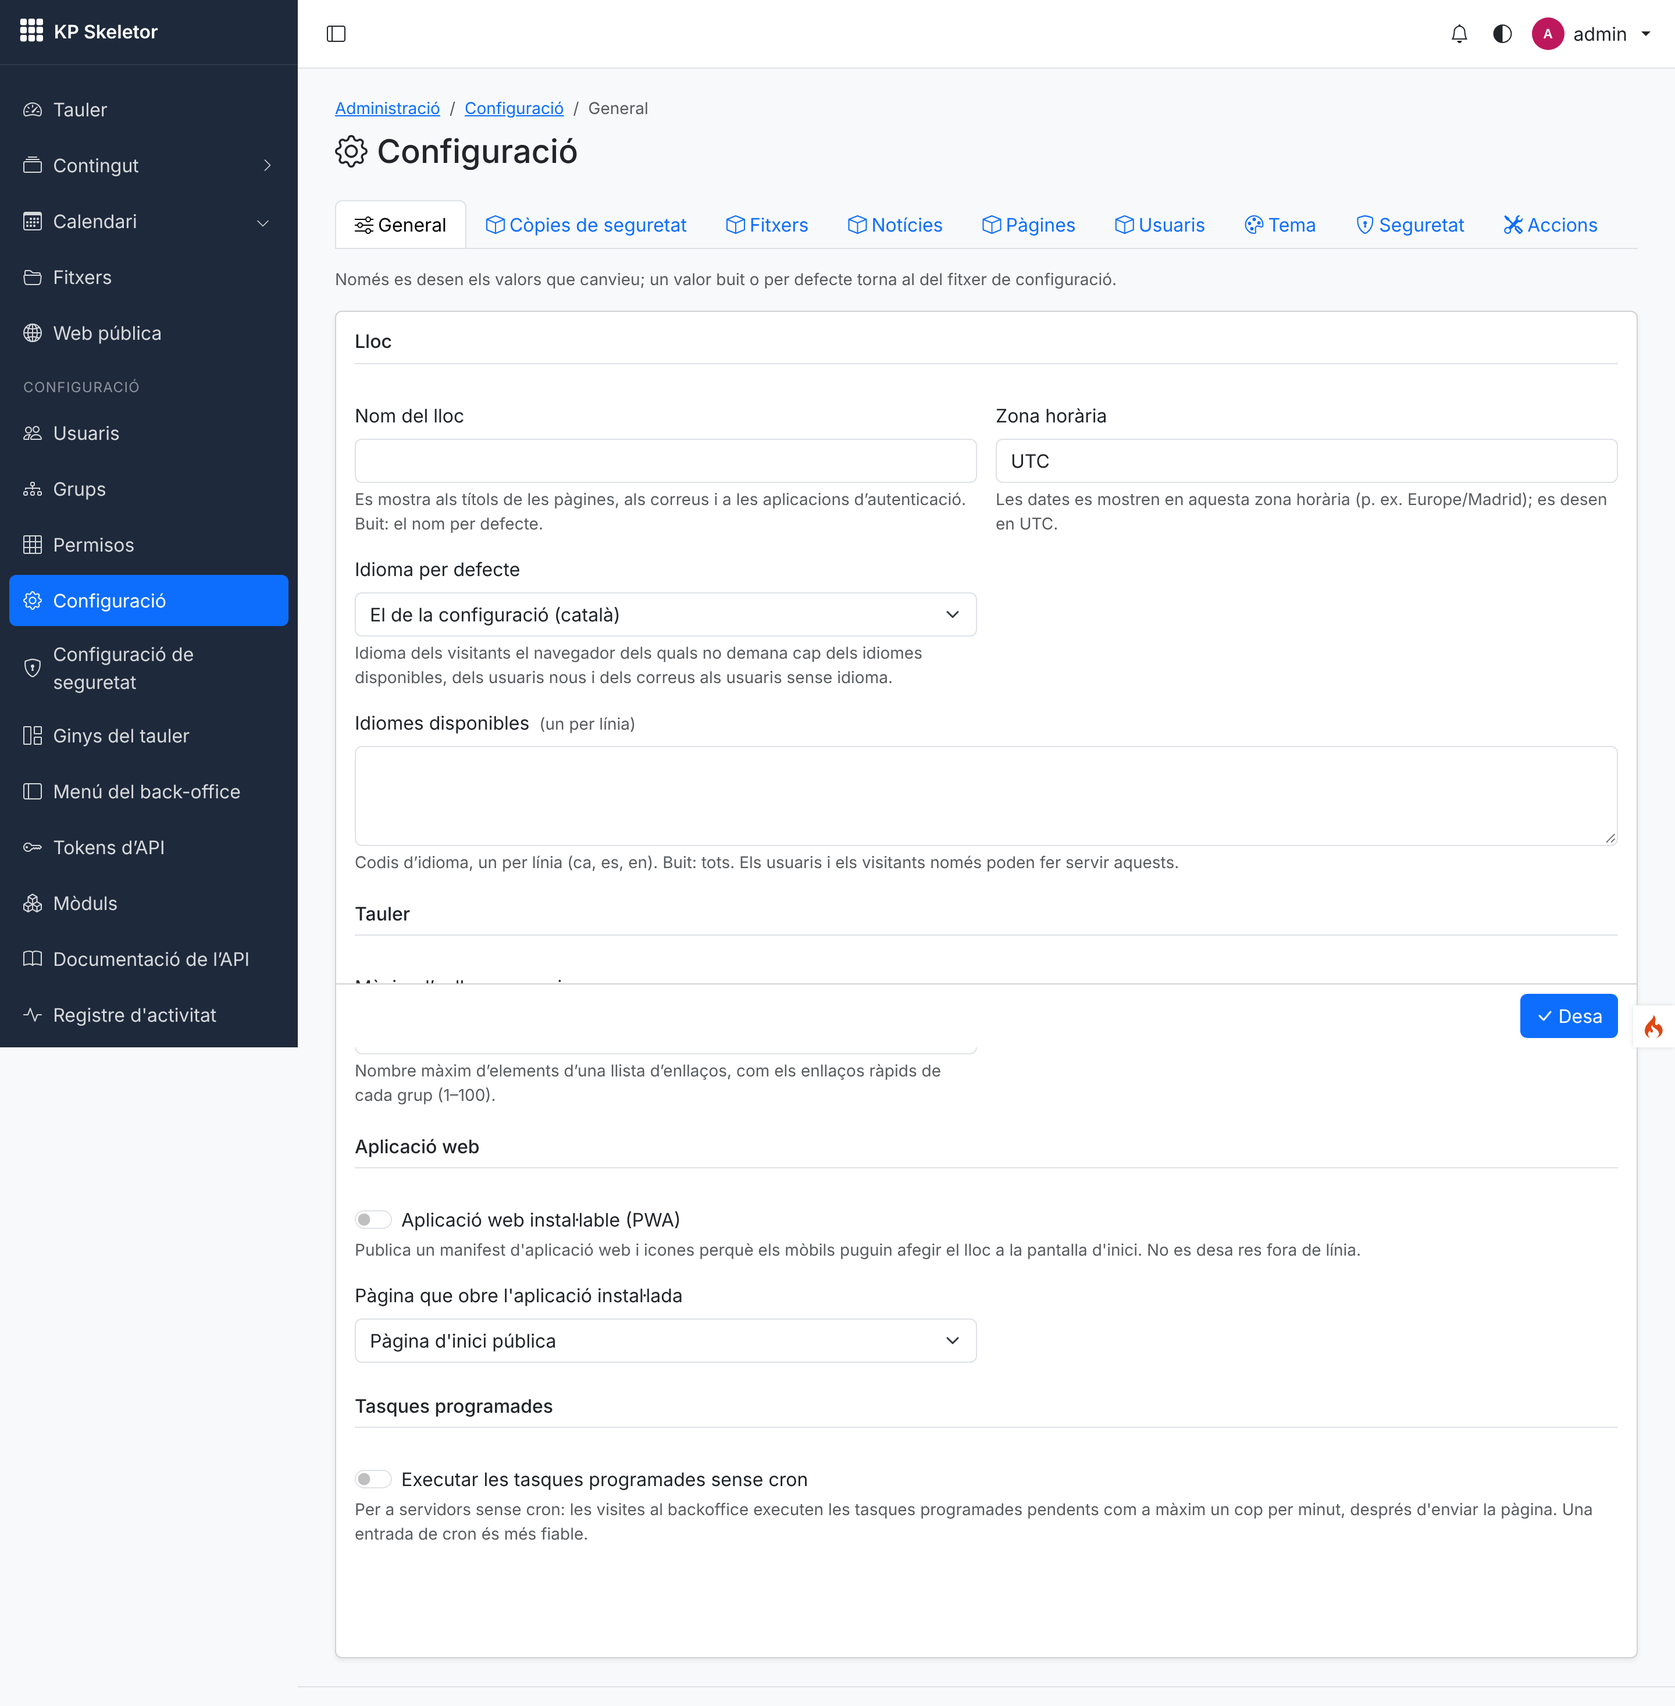
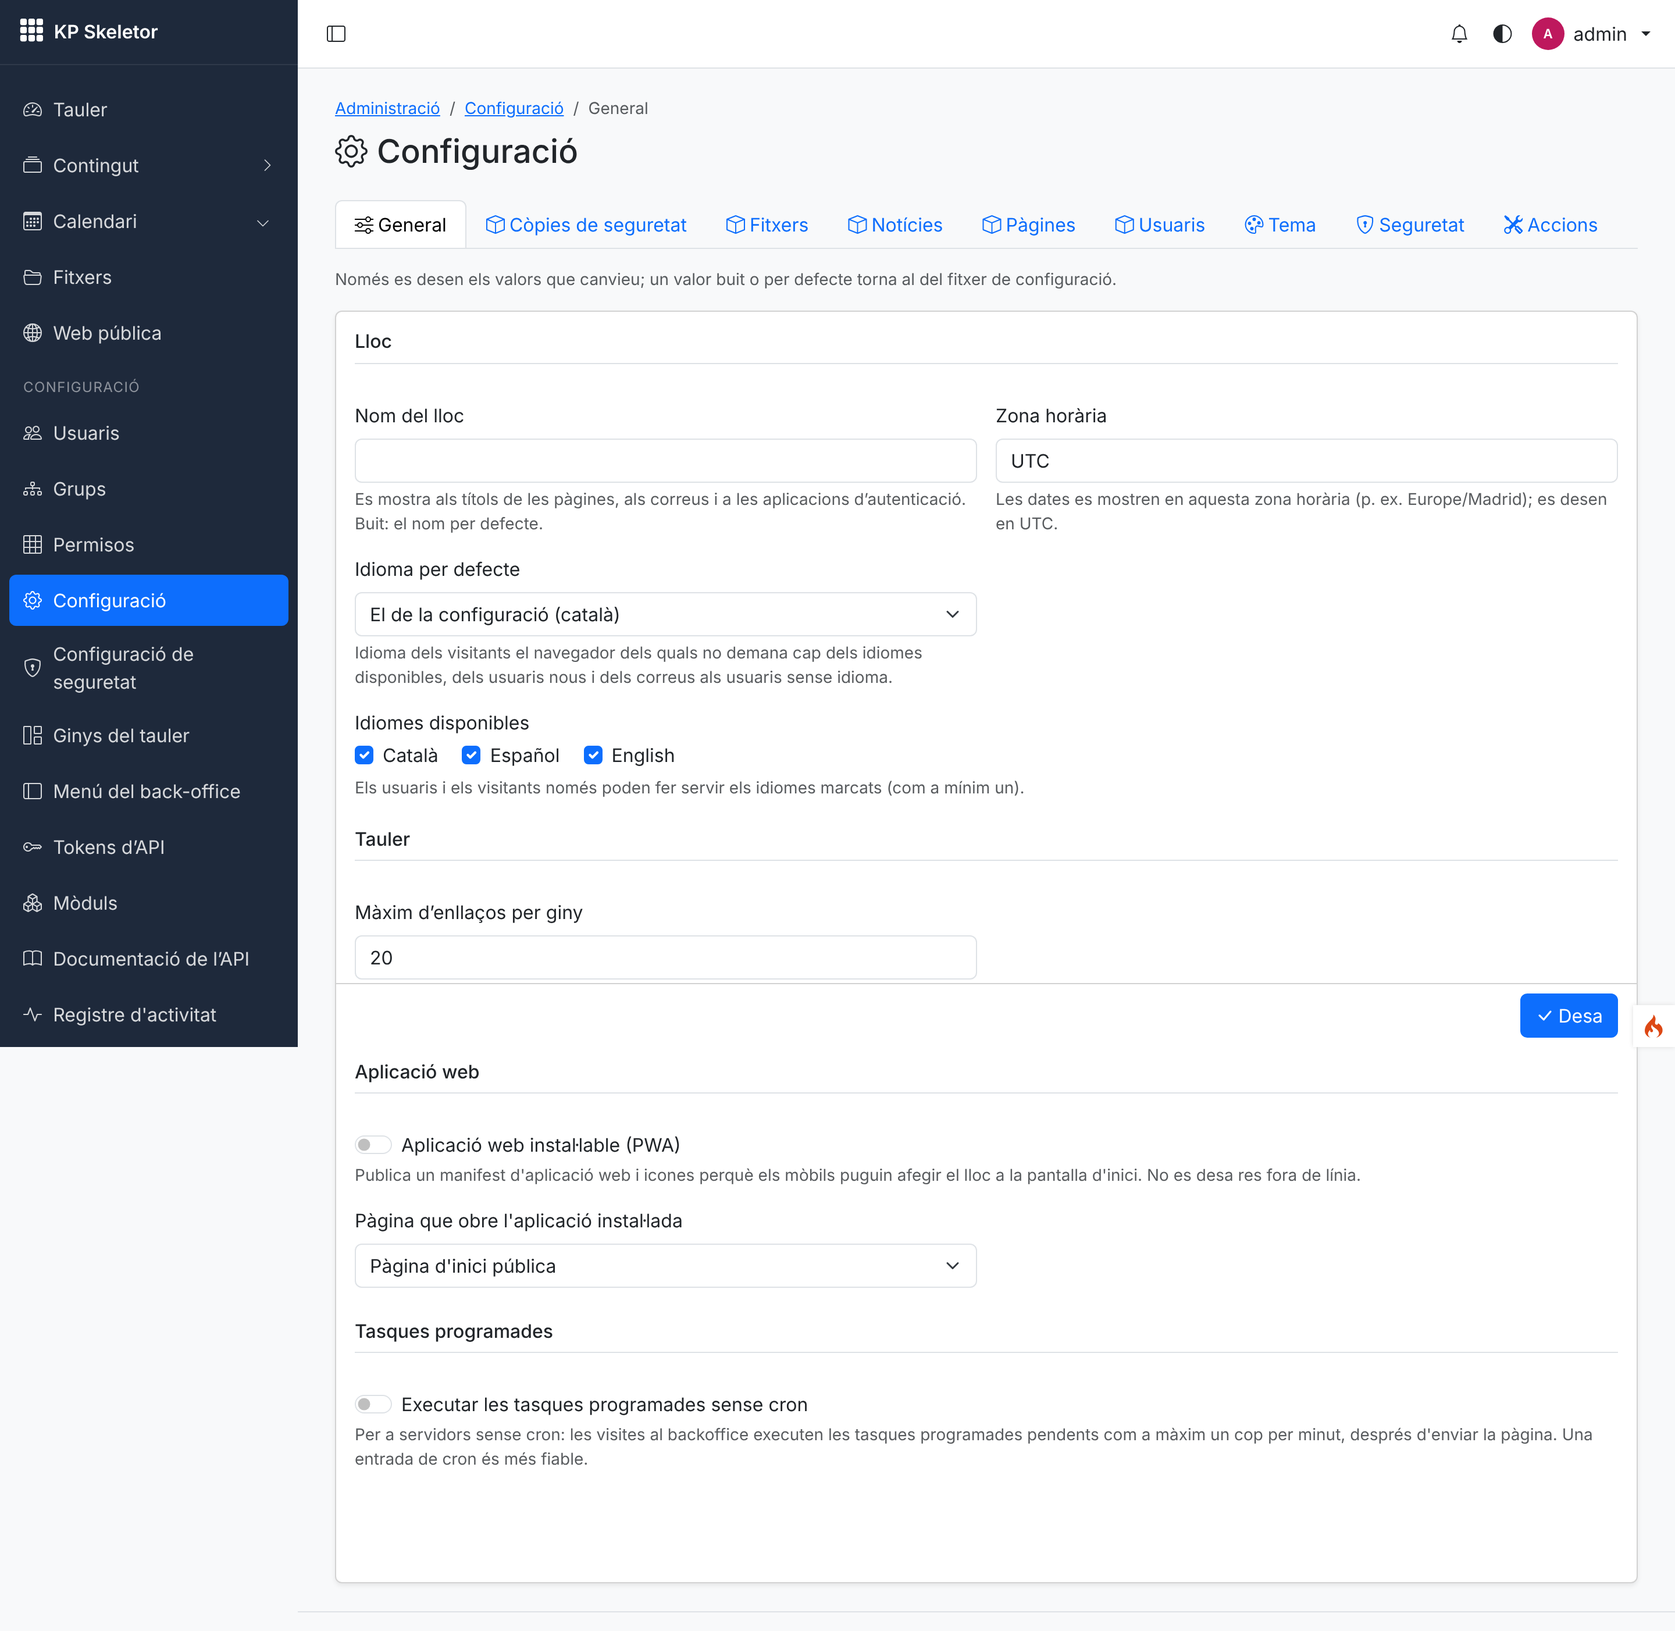
Decisions 31: D-31-01 decided (Available languages as checkboxes), applied: multiselect setting type
Core.locales becomes a multiselect (every language checked by default, at least
one); the Settings module renders checkboxes; specification, docs and tests.

Claude-Session: https://claude.ai/code/session_01BM6RUAMjy7edDvA5F1Pz81

diff --git a/modules/Settings/Forms/FormGenerator.php b/modules/Settings/Forms/FormGenerator.php
@@ -10,8 +10,8 @@ use Modules\Core\I18n\Locales;
  * Generates the settings forms from field definitions and checks the posted values.
  *
  * - render(): one view per kind of field (`Views/fields/…`, overridable by a theme): text-like
- *   inputs, textarea (`text`, `json`, `list`), switch (`bool`), select and one input per
- *   available locale (`translated`); grouped under headings; read-only fields are disabled.
+ *   inputs, textarea (`text`, `json`, `list`), switch (`bool`), select, checkboxes (`multiselect`) and one
+ *   input per available locale (`translated`); grouped under headings; read-only fields are disabled.
  * - validate(): the field's rules (declared + type, Field::validationRules()) through
  *   CodeIgniter's validation, then the posted text cast to the setting's type.
  */
@@ -50,8 +50,20 @@ final class FormGenerator
             'select'                 => 'select',
             'text', 'json', 'list'   => 'textarea',
             'translated'             => 'translated',
+            'multiselect'            => 'multiselect',
             default                  => 'input',
         };
+
+        if ($field->type === 'multiselect') {
+            $posted = $old[$field->name] ?? null;
+
+            return theme_view('Modules\\Settings\\Views\\fields\\multiselect', [
+                'field'   => $field,
+                'id'      => 'setting-' . $field->name,
+                'checked' => array_key_exists($field->name, $old) ? array_map('strval', array_filter(is_array($posted) ? $posted : [], 'is_scalar')) : array_map('strval', is_array($field->value) ? $field->value : []),
+                'error'   => $errors[$field->name] ?? null,
+            ], ['debug' => false]);
+        }
 
         if ($field->type === 'translated') {
             $posted = $old[$field->name] ?? null;
@@ -118,6 +130,16 @@ final class FormGenerator
                     $data[$field->name][$locale]       = is_scalar($raw[$locale] ?? null) ? (string) $raw[$locale] : '';
                     $rules[$field->name . '.' . $locale] = ['label' => lang($field->label) . ' (' . Locales::name($locale) . ')', 'rules' => $field->validationRules()];
                 }
+
+                continue;
+            }
+
+            if ($field->type === 'multiselect') {
+                // Checkboxes post a list: only known options are kept, then the declared rules
+                // check the chosen values joined with commas (e.g. `required`).
+                $chosen = $field->cast(is_array($raw) ? $raw : []);
+                $data[$field->name]  = implode(',', $chosen);
+                $rules[$field->name] = ['label' => lang($field->label), 'rules' => $field->validationRules()];
 
                 continue;
             }

diff --git a/modules/Settings/Tests/TranslatedSettingsTest.php b/modules/Settings/Tests/TranslatedSettingsTest.php
@@ -102,13 +102,28 @@ final class TranslatedSettingsTest extends SettingsTestCase
         $this->loginWith('settings.update', 'settings.core');
         $form = ['Core-siteName' => '', 'Core-timezone' => 'UTC', 'Core-pwaStart' => 'public', 'Core-widgetMaxLinks' => '20'];
 
-        $this->send('POST', 'backend/settings/core', $form + ['Core-defaultLocale' => 'es', 'Core-locales' => "es\nca\nfr"])->assertStatus(422);
+        // Checkboxes (D-31-01): every language checked by default, at least one required.
+        $page = $this->send('GET', 'backend/settings/core');
+        $body = (string) $page->response()->getBody();
+        $this->assertSame(3, substr_count($body, 'name="Core-locales[]"'));
+        $this->assertSame(3, preg_match_all('/name="Core-locales\[\]" value="(?:ca|es|en)" checked/', $body));
+
+        $this->send('POST', 'backend/settings/core', $form + ['Core-defaultLocale' => 'es'])->assertStatus(422);
+        $this->send('POST', 'backend/settings/core', $form + ['Core-defaultLocale' => 'es', 'Core-locales' => 'es'])->assertStatus(422);
+        $this->send('POST', 'backend/settings/core', $form + ['Core-defaultLocale' => 'es', 'Core-locales' => ['fr', 'xx']])->assertStatus(422);
         $this->assertSame(0, $this->storedCount('Core', 'locales'));
 
-        $this->send('POST', 'backend/settings/core', $form + ['Core-defaultLocale' => 'es', 'Core-locales' => "es\nca"])
+        $this->send('POST', 'backend/settings/core', $form + ['Core-defaultLocale' => 'es', 'Core-locales' => ['es', 'ca', 'fr', ['x']]])
             ->assertRedirectTo(site_url('backend/settings/core'));
 
-        $this->assertSame(['ca', 'es'], Locales::available(), 'In the order of the supported locales.');
+        $this->assertSame(['ca', 'es'], setting('Core.locales'), 'Unknown values dropped, in the order of the options.');
+        $this->assertSame(['ca', 'es'], Locales::available());
         $this->assertSame('es', Locales::default());
+
+        $page = $this->send('GET', 'backend/settings/core');
+        $this->assertStringContainsString('value="en">', (string) $page->response()->getBody(), 'English is shown unchecked.');
+
+        $this->send('POST', 'backend/settings/core', $form + ['Core-defaultLocale' => 'es', 'Core-locales' => ['ca', 'es', 'en']]);
+        $this->assertSame(0, $this->storedCount('Core', 'locales'), 'Every language checked again: the default, nothing stored.');
     }
 }

diff --git a/modules/Settings/Forms/Field.php b/modules/Settings/Forms/Field.php
@@ -111,6 +111,13 @@ final class Field
             return SettingCaster::cast('translated', [...$kept, ...(is_array($posted) ? $posted : [])]);
         }
 
+        if ($this->type === 'multiselect') {
+            // The checked values, in the order of the options; anything else is dropped.
+            $chosen = SettingCaster::cast('list', is_array($posted) ? $posted : (is_scalar($posted) ? (string) $posted : ''));
+
+            return array_values(array_filter(array_map('strval', array_keys($this->options)), static fn (string $option): bool => in_array($option, $chosen, true)));
+        }
+
         if ($this->type === 'bool') {
             return $posted === '1' || $posted === 1 || $posted === true;
         }
@@ -135,7 +142,7 @@ final class Field
     {
         return match (true) {
             $type === 'bool'                       => $value === true ? '1' : '0',
-            $type === 'list' && is_array($value)   => implode("\n", array_map(static fn ($v): string => is_scalar($v) ? (string) $v : '', $value)),
+            in_array($type, ['list', 'multiselect'], true) && is_array($value) => implode("\n", array_map(static fn ($v): string => is_scalar($v) ? (string) $v : '', $value)),
             $type === 'json'                       => $value === [] || $value === null ? '' : (string) json_encode($value, JSON_PRETTY_PRINT | JSON_UNESCAPED_SLASHES | JSON_UNESCAPED_UNICODE),
             $type === 'translated'                 => (string) json_encode(SettingCaster::cast('translated', $value ?? []), JSON_UNESCAPED_SLASHES | JSON_UNESCAPED_UNICODE),
             is_scalar($value)                      => (string) $value,

diff --git a/modules/Settings/Views/fields/multiselect.php b/modules/Settings/Views/fields/multiselect.php
@@ -1,0 +1,24 @@
+<?php
+/**
+ * A setting with several fixed choices (type `multiselect`): one checkbox per option.
+ *
+ * @var \Modules\Settings\Forms\Field $field
+ * @var string                        $id
+ * @var list<string>                  $checked the checked values
+ * @var string|null                   $error
+ */
+?>
+<div class="col-12 settings-field">
+    <fieldset aria-describedby="<?= esc($id, 'attr') ?>-help">
+        <legend class="form-label fs-6 mb-1"><?= esc(lang($field->label)) ?></legend>
+        <?php foreach ($field->options as $option => $label): ?>
+            <?php $optionId = $id . '-' . preg_replace('/[^A-Za-z0-9_-]/', '_', (string) $option); ?>
+            <div class="form-check form-check-inline">
+                <input class="form-check-input<?= $error !== null ? ' is-invalid' : '' ?>" type="checkbox" id="<?= esc($optionId, 'attr') ?>"
+                    name="<?= esc($field->name, 'attr') ?>[]" value="<?= esc((string) $option, 'attr') ?>"<?= in_array((string) $option, $checked, true) ? ' checked' : '' ?><?= $field->readOnly ? ' disabled' : '' ?>>
+                <label class="form-check-label" for="<?= esc($optionId, 'attr') ?>"><?= esc($field->literalOptions ? $label : lang($label)) ?></label>
+            </div>
+        <?php endforeach ?>
+    </fieldset>
+    <?= $this->include('Modules\Settings\Views\fields\_meta') ?>
+</div>

diff --git a/modules/Core/Config/Module.php b/modules/Core/Config/Module.php
@@ -132,7 +132,7 @@ final class Module extends ModuleManifest
             'group'   => 'general',
         ],
         // Languages (docs/i18n.md): the site's default (empty: Config\App::$defaultLocale, Catalan) and
-        // the available ones (empty: every supported locale); Modules\Core\I18n\Locales.
+        // the available ones (checkboxes, D-31-01; at least one); Modules\Core\I18n\Locales.
         'defaultLocale' => [
             'type'    => 'select',
             'default' => '',
@@ -147,9 +147,14 @@ final class Module extends ModuleManifest
             'group'   => 'general',
         ],
         'locales' => [
-            'type'    => 'list',
-            'default' => [],
-            'rules'   => 'supported_locales',
+            'type'    => 'multiselect',
+            'default' => ['ca', 'es', 'en'],
+            'rules'   => 'required|supported_locales',
+            'options' => [
+                'ca' => 'Core.locales.ca',
+                'es' => 'Core.locales.es',
+                'en' => 'Core.locales.en',
+            ],
             'label'   => 'Core.settings.locales',
             'help'    => 'Core.settings.localesHelp',
             'group'   => 'general',

diff --git a/modules/Core/Modules/ManifestValidator.php b/modules/Core/Modules/ManifestValidator.php
@@ -29,7 +29,7 @@ final class ManifestValidator
 
     public const RESOURCE_TYPES = ['crud', 'page'];
 
-    public const SETTING_TYPES = ['string', 'text', 'int', 'float', 'bool', 'select', 'email', 'url', 'color', 'json', 'list', 'translated'];
+    public const SETTING_TYPES = ['string', 'text', 'int', 'float', 'bool', 'select', 'email', 'url', 'color', 'json', 'list', 'translated', 'multiselect'];
 
     public const MENU_KEYS = ['resource', 'route', 'permission', 'label', 'icon', 'order', 'zone', 'parent'];
 
@@ -357,7 +357,7 @@ final class ManifestValidator
                 $this->error("{$key}['optionsProvider']", 'mustBe', [SettingOptionsProvider::class]);
             }
 
-            if ($type === 'select' && $provider === null && (! isset($definition['options']) || ! is_array($definition['options']) || $definition['options'] === [])) {
+            if (in_array($type, ['select', 'multiselect'], true) && $provider === null && (! isset($definition['options']) || ! is_array($definition['options']) || $definition['options'] === [])) {
                 $this->error("{$key}['options']", 'required');
             }
         }

diff --git a/modules/Settings/Tests/SettingsScreensTest.php b/modules/Settings/Tests/SettingsScreensTest.php
@@ -71,6 +71,7 @@ final class SettingsScreensTest extends SettingsTestCase
             'Core-pwaStart'     => 'backend',
             'Core-poorMansCron' => '0',
             'Core-widgetMaxLinks' => '20',
+            'Core-locales'      => ['ca', 'es', 'en'],
         ])->assertRedirectTo(site_url('backend/settings/core'));
 
         $this->assertSame('Institut Demo', setting('Core.siteName'));
@@ -93,7 +94,7 @@ final class SettingsScreensTest extends SettingsTestCase
         $this->loginWith('settings.update', 'settings.core');
         setting('Core.siteName', 'Old name');
 
-        $this->send('POST', 'backend/settings/core', ['Core-siteName' => '', 'Core-timezone' => 'UTC', 'Core-pwaStart' => 'public', 'Core-widgetMaxLinks' => '20']);
+        $this->send('POST', 'backend/settings/core', ['Core-siteName' => '', 'Core-timezone' => 'UTC', 'Core-pwaStart' => 'public', 'Core-widgetMaxLinks' => '20', 'Core-locales' => ['ca', 'es', 'en']]);
 
         $this->assertSame(0, $this->storedCount('Core', 'siteName'));
         $this->assertSame(lang('Core.app.name'), site_name());

diff --git a/modules/Core/Settings/SettingCaster.php b/modules/Core/Settings/SettingCaster.php
@@ -10,6 +10,8 @@ namespace Modules\Core\Settings;
  * `list` is a list of strings: from an array, a JSON array or text with one entry per line (or
  * separated by commas); entries are trimmed, empty ones and duplicates dropped.
  *
+ * `multiselect` (checkboxes) is stored like `list`: the chosen values.
+ *
  * `translated` is a map locale => text (from an array or a JSON object): keys must look like a
  * locale (`ca`, `pt-BR`), values are strings (line breaks normalised); empty texts are dropped and
  * the keys sorted, so two equal maps compare equal (TranslatedText).
@@ -27,7 +29,7 @@ final class SettingCaster
             'float' => is_numeric($value) ? (float) $value : 0.0,
             'bool'  => is_bool($value) ? $value : filter_var($value, FILTER_VALIDATE_BOOLEAN),
             'json'  => self::json($value),
-            'list'  => self::list($value),
+            'list', 'multiselect' => self::list($value),
             'translated' => self::translated($value),
             default => is_scalar($value) ? (string) $value : '',
         };

diff --git a/modules/Core/Language/es/Core.php b/modules/Core/Language/es/Core.php
@@ -451,7 +451,7 @@ return [
         'defaultLocaleHelp' => 'Idioma de los visitantes cuyo navegador no pide ninguno de los idiomas disponibles, de los usuarios nuevos y de los correos a usuarios sin idioma.',
         'defaultLocaleConfig' => 'El de la configuración (catalán)',
         'locales' => 'Idiomas disponibles',
-        'localesHelp' => 'Códigos de idioma, uno por línea (ca, es, en). Vacío: todos. Los usuarios y los visitantes solo pueden usar estos.',
+        'localesHelp' => 'Los usuarios y los visitantes solo pueden usar los idiomas marcados (como mínimo uno).',
         'pwa'             => 'Aplicación web instalable (PWA)',
         'pwaHelp'         => 'Publica un manifiesto de aplicación web e iconos para que los móviles puedan añadir el sitio a la pantalla de inicio. No se guarda nada sin conexión.',
         'pwaStart'        => 'Página que abre la aplicación instalada',

diff --git a/modules/Core/Language/ca/Core.php b/modules/Core/Language/ca/Core.php
@@ -451,7 +451,7 @@ return [
         'defaultLocaleHelp' => 'Idioma dels visitants el navegador dels quals no demana cap dels idiomes disponibles, dels usuaris nous i dels correus als usuaris sense idioma.',
         'defaultLocaleConfig' => 'El de la configuració (català)',
         'locales' => 'Idiomes disponibles',
-        'localesHelp' => 'Codis d’idioma, un per línia (ca, es, en). Buit: tots. Els usuaris i els visitants només poden fer servir aquests.',
+        'localesHelp' => 'Els usuaris i els visitants només poden fer servir els idiomes marcats (com a mínim un).',
         'pwa'             => 'Aplicació web instal·lable (PWA)',
         'pwaHelp'         => 'Publica un manifest d\'aplicació web i icones perquè els mòbils puguin afegir el lloc a la pantalla d\'inici. No es desa res fora de línia.',
         'pwaStart'        => 'Pàgina que obre l\'aplicació instal·lada',

diff --git a/modules/Core/Language/en/Core.php b/modules/Core/Language/en/Core.php
@@ -451,7 +451,7 @@ return [
         'defaultLocaleHelp' => 'Language of visitors whose browser asks for none of the available languages, of new users and of emails to users without a language.',
         'defaultLocaleConfig' => 'As configured (Catalan)',
         'locales' => 'Available languages',
-        'localesHelp' => 'Language codes, one per line (ca, es, en). Empty: all of them. Users and visitors can only use these.',
+        'localesHelp' => 'Users and visitors can only use the checked languages (at least one).',
         'pwa'             => 'Installable web app (PWA)',
         'pwaHelp'         => 'Publishes a web app manifest and icons so phones can add the site to the home screen. Nothing is cached offline.',
         'pwaStart'        => 'Page the installed app opens',

diff --git a/modules/Core/Tests/ManifestValidatorTest.php b/modules/Core/Tests/ManifestValidatorTest.php
@@ -138,6 +138,9 @@ final class ManifestValidatorTest extends CIUnitTestCase
         yield 'setting select without options' => [static function (ModuleManifest $m): void {
             $m->settings['perPage']['type'] = 'select';
         }, "\$settings['perPage']['options'] is required"];
+        yield 'setting multiselect without options' => [static function (ModuleManifest $m): void {
+            $m->settings['perPage']['type'] = 'multiselect';
+        }, "\$settings['perPage']['options'] is required"];
         yield 'setting options provider' => [static function (ModuleManifest $m): void {
             $m->settings['perPage']['type']            = 'select';
             $m->settings['perPage']['optionsProvider'] = \stdClass::class;
